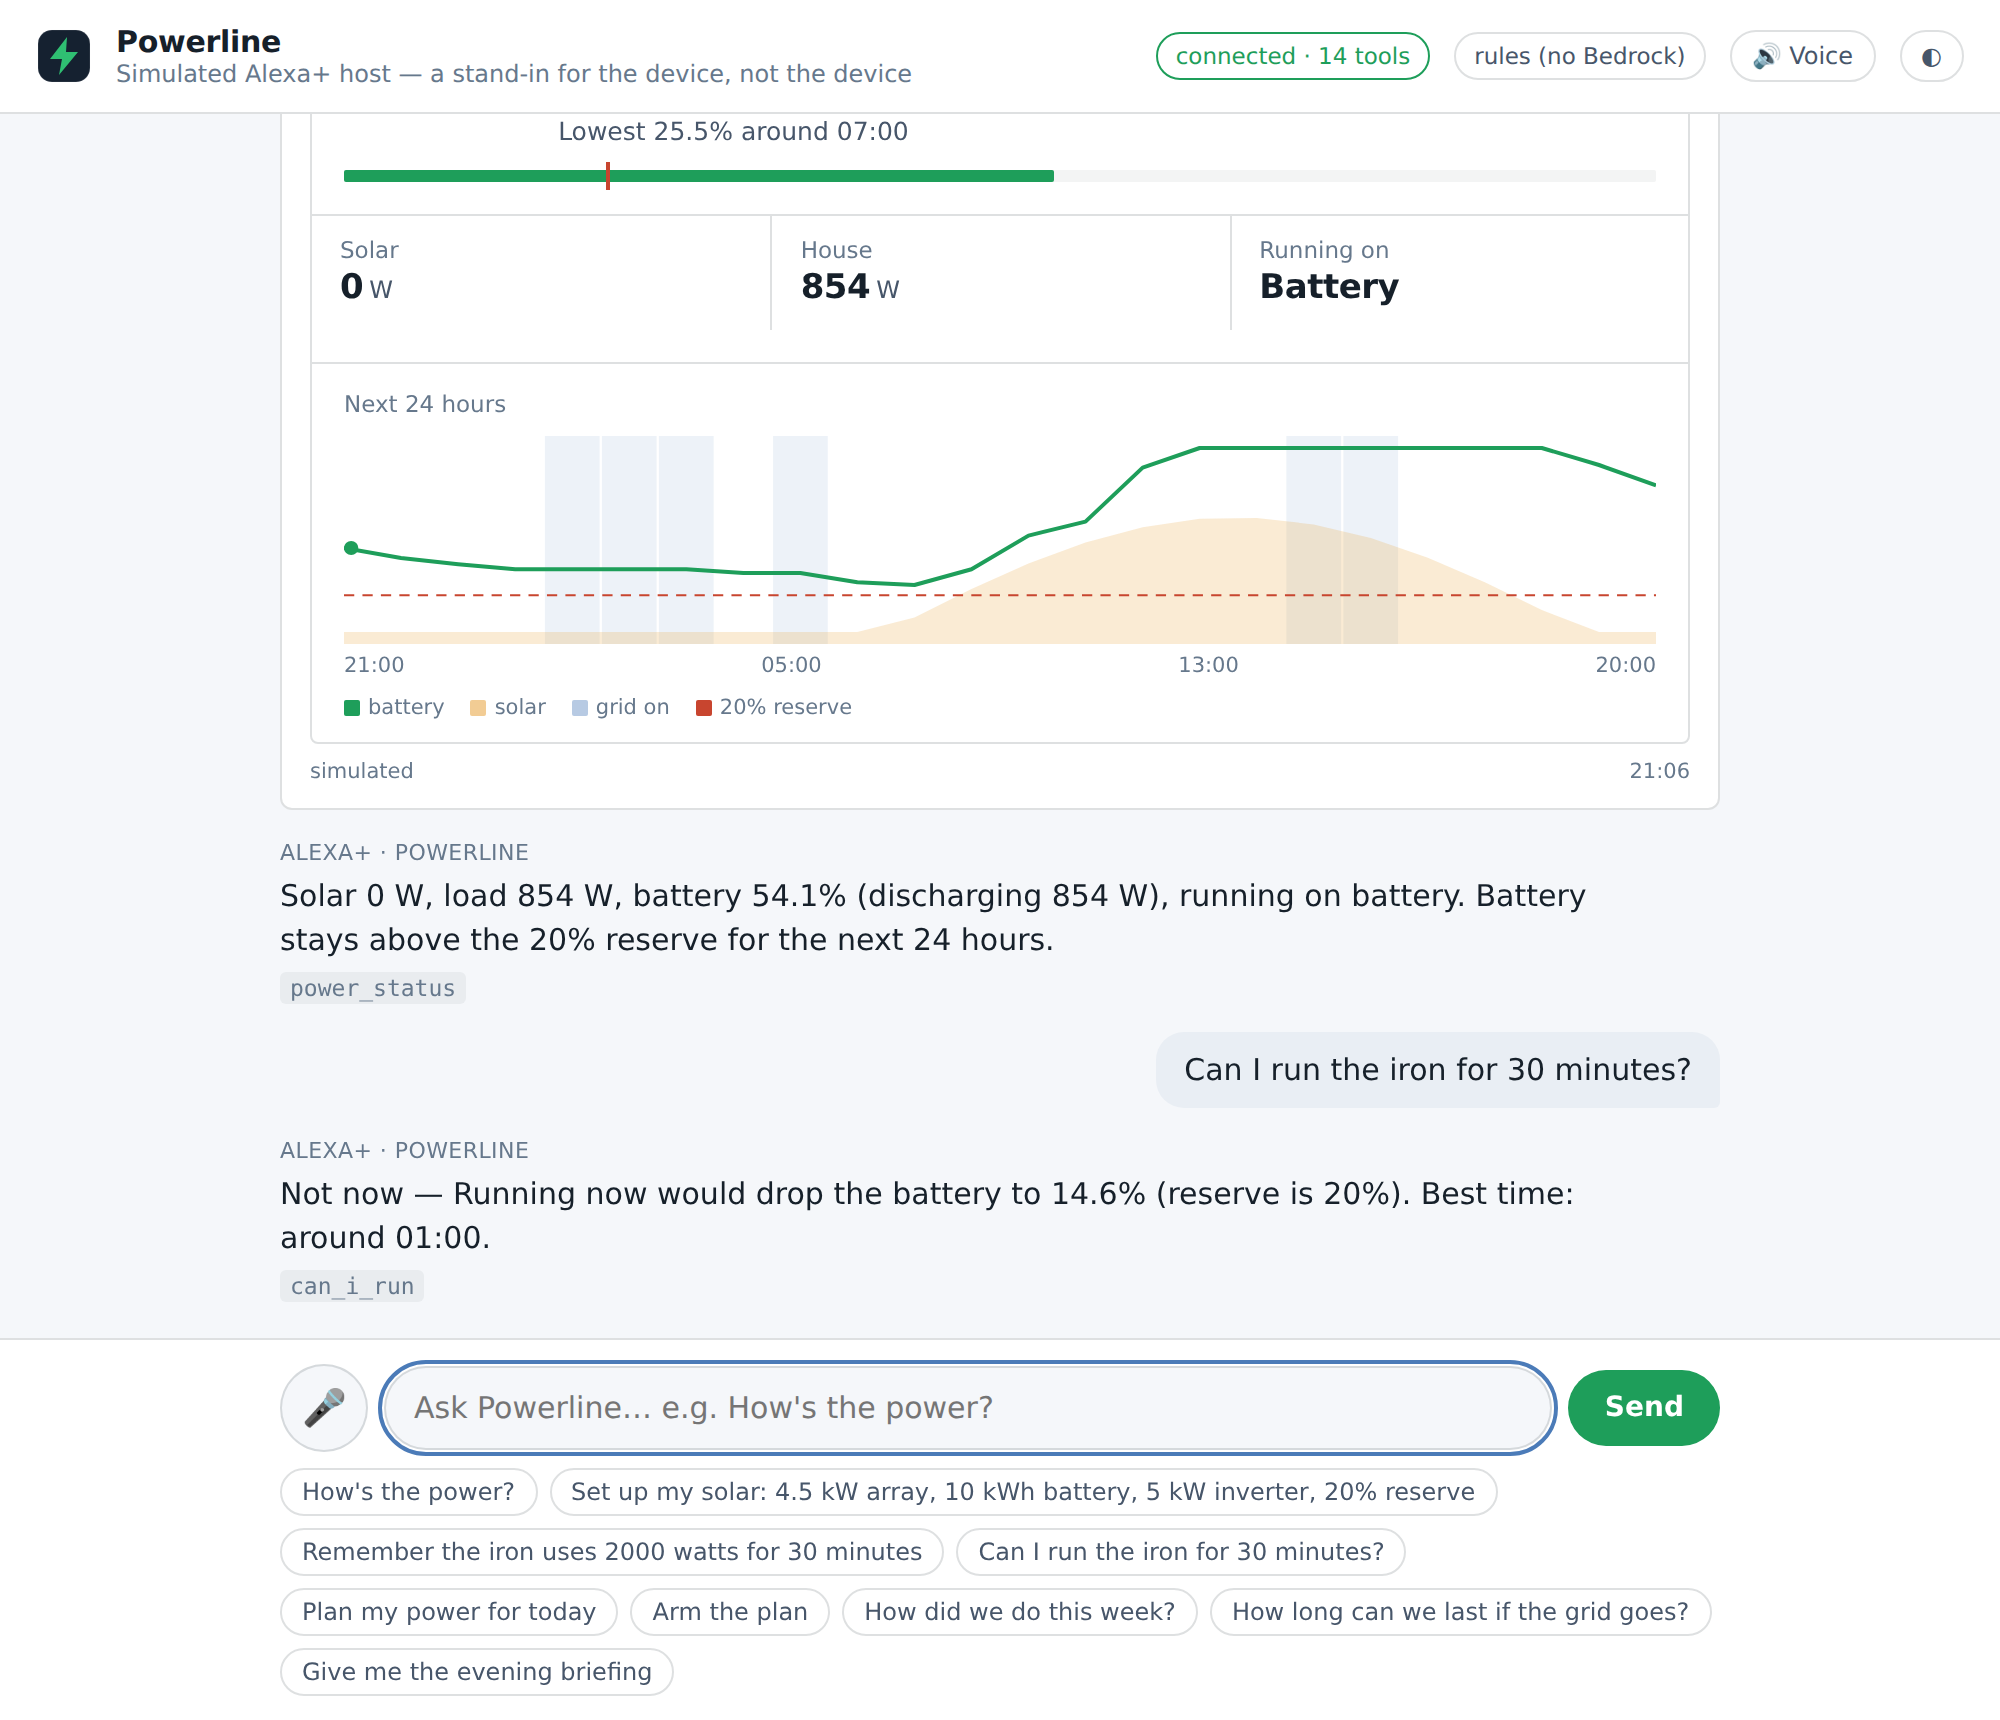
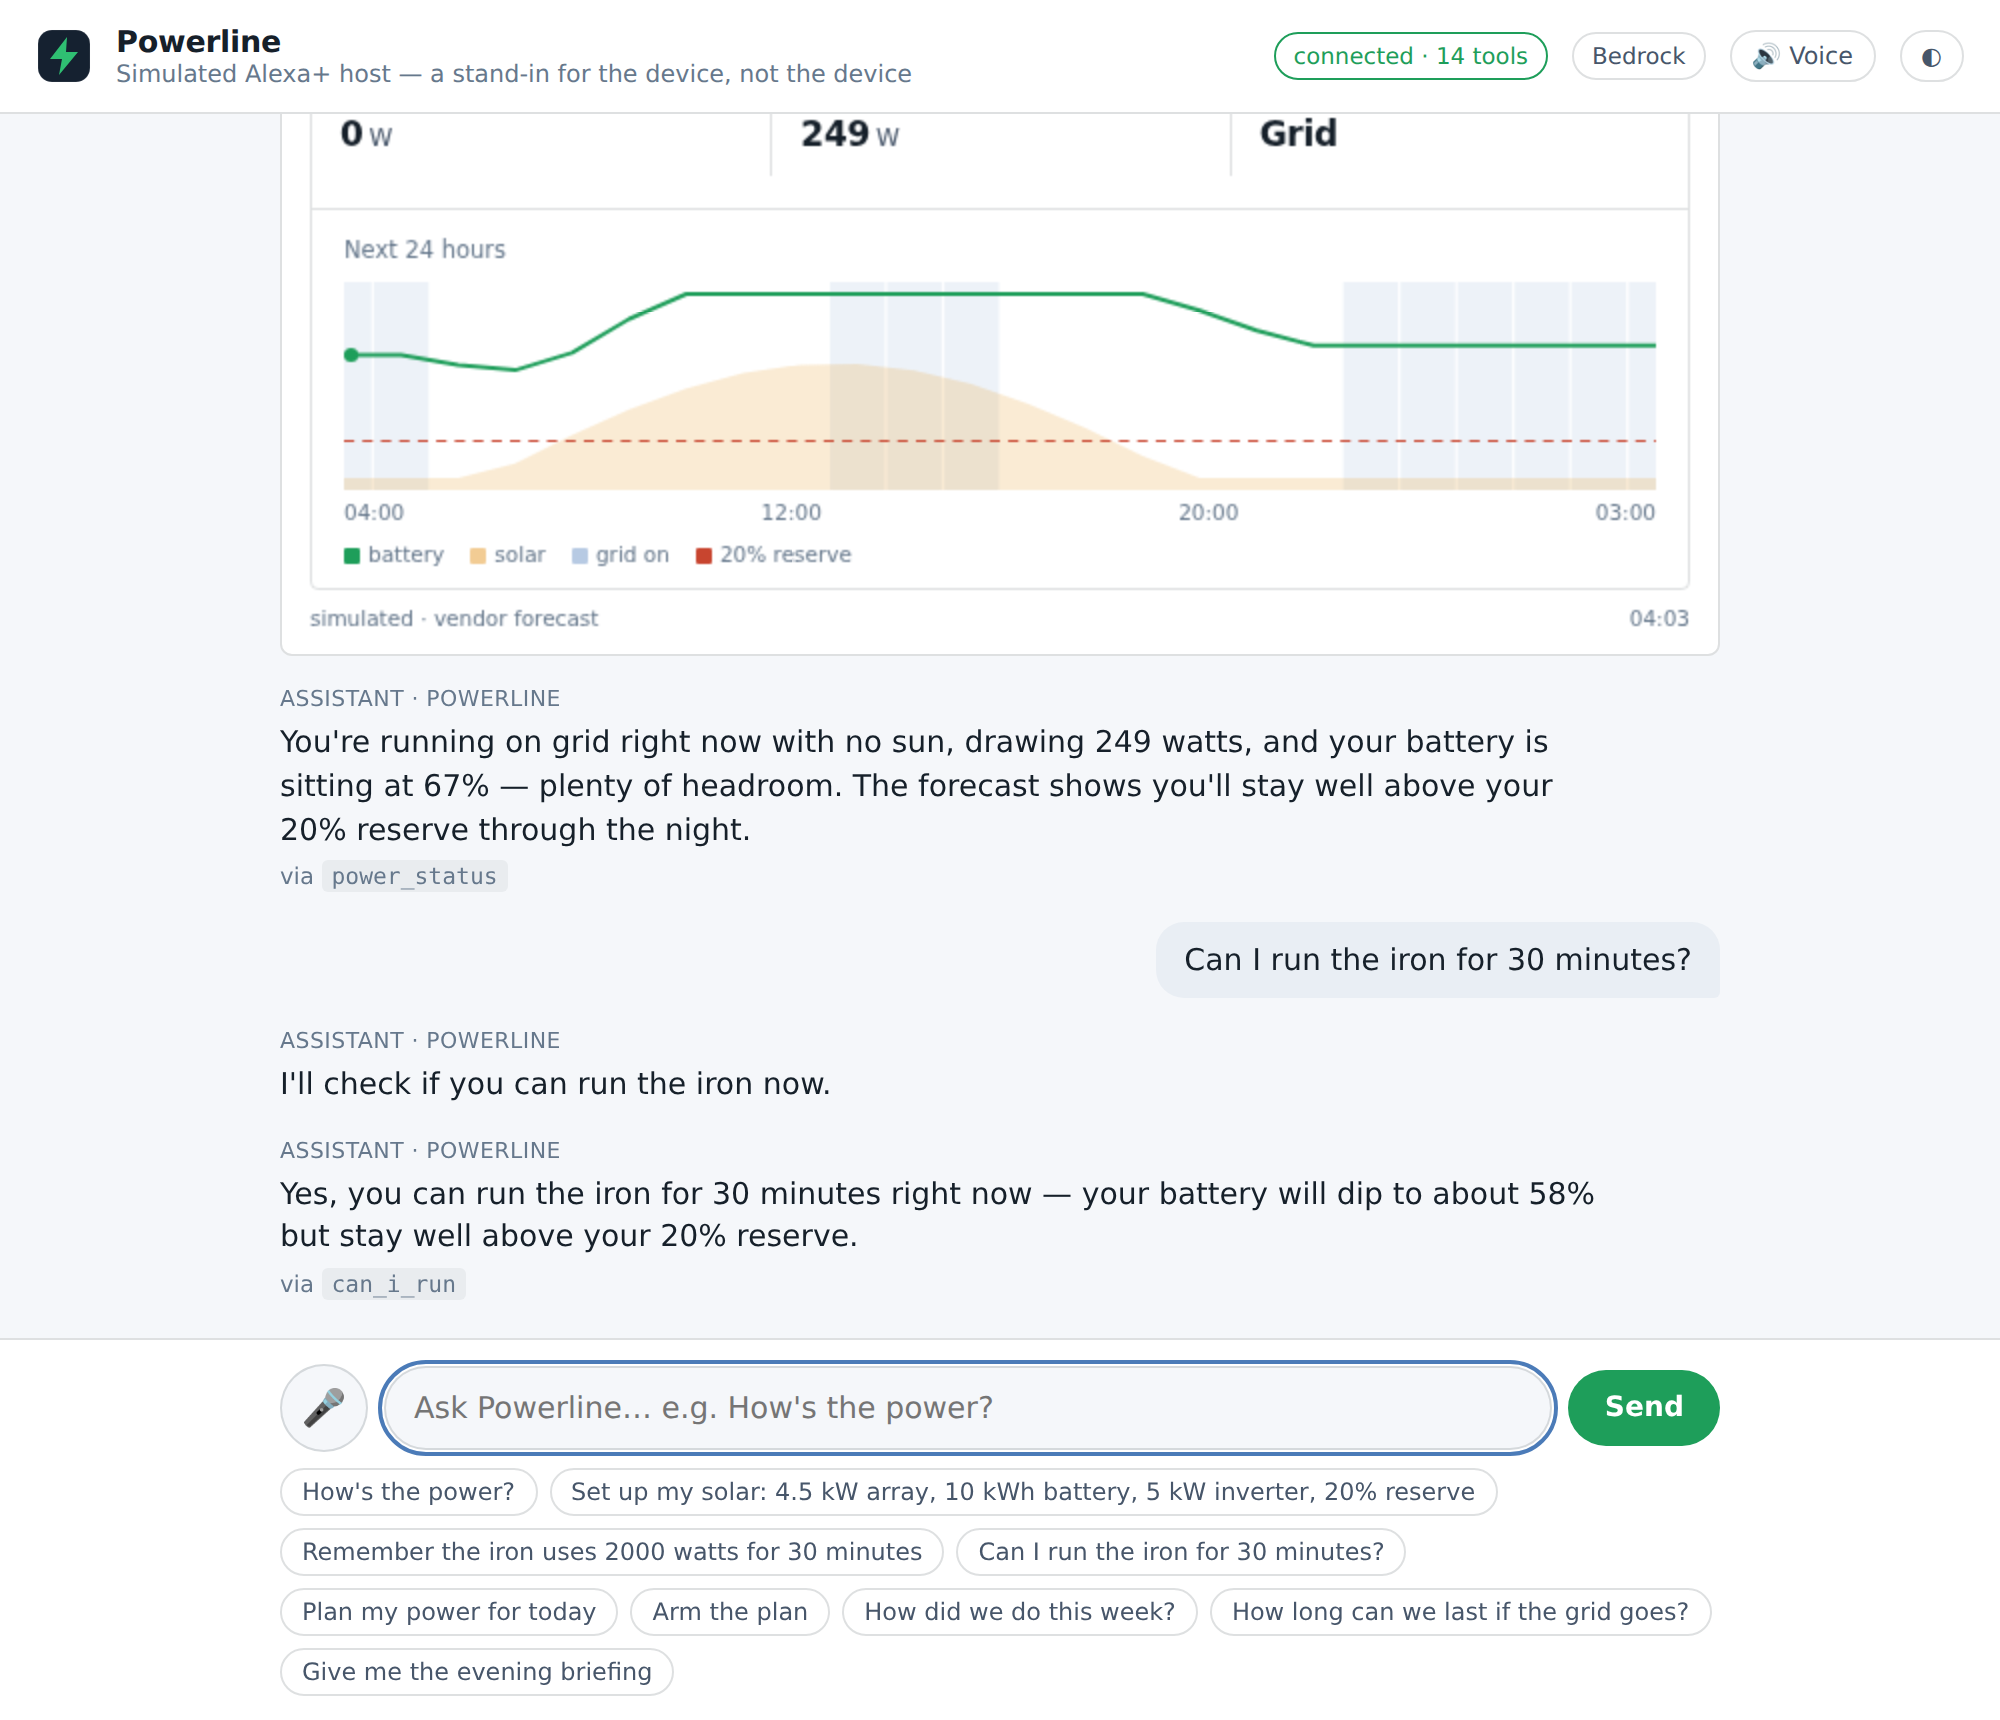
docs: README images re-recorded on the live deployment with Bedrock

diff --git a/README.md b/README.md
@@ -16,7 +16,7 @@ data, answers with **interactive MCP App cards**, plans the day around the sun, 
 it is time, **learns the household's own pattern**, and ships with its **own simulated Alexa+ host** so
 anyone can try it in a browser.
 
-![Powerline's simulated Alexa+ host: status card, "not now — best time 09:00", planner re-planning from a tick, arming, weekly report](docs/host.gif)
+![Powerline's simulated Alexa+ host on the live deployment, with Amazon Bedrock answering: status card, "can I run the iron?", the planner re-planning from a tick, and the weekly report](docs/host.gif)
 
 ### At a glance
 
@@ -28,7 +28,7 @@ anyone can try it in a browser.
 | **Remembers** | profile, appliances, tariff, armed plan, 14 days of hourly history per household — DynamoDB (conditional writes) or disk |
 | **Learns** | after 3 days the forecast uses *this* home's hour-by-hour load shape and real solar yield; the report says so |
 | **Reports** | solar made, house used, grid hours and cost, worst battery point — today / yesterday / week |
-| **Real data** | Victron VRM (live against a real installation), Growatt OpenAPI (replay-tested), simulator |
+| **Real data** | Victron VRM (read live from Victron's public demo installation), Growatt OpenAPI (replay-tested), simulator |
 | **Host** | `/demo`: full MCP Apps host (SDK `AppBridge`), pushed alerts as toasts, elicitation dialog, voice in/out, Bedrock or offline rule router |
 | **Identity** | bearer token = household; sessions bound to it; fails closed; CORS for browser hosts; **OAuth 2.1 account linking built in** (discovery, dynamic registration, consent page, PKCE, rotating refresh) — the flow Alexa+ uses, proven with the official client |
 | **Weather** | optional Open-Meteo radiation forecast for the household's coordinates replaces the clear-sky curve; falls back silently |
@@ -64,7 +64,7 @@ reminders arriving as they are pushed, voice in and out). It runs on Amazon Bedr
 is set and on a deterministic phrase router otherwise, and says which in its header. It is a stand-in for
 the device, and says that too.
 
-![Simulated Alexa+ host](docs/demo-host.png)
+![Simulated Alexa+ host on the live deployment, Bedrock phrasing the replies](docs/demo-host.png)
 
 Or connect any other MCP Apps host to `http://127.0.0.1:3000/mcp` — [MCPJam Inspector](https://www.mcpjam.com)
 (`npx @mcpjam/inspector@latest`, **Add server → HTTP**) — and say:
@@ -295,7 +295,7 @@ Judges and users deserve the line drawn clearly.
 | Real | Simulated / not claimed |
 | --- | --- |
 | The MCP server, transport, sessions, auth, cards, prompts, skill, alerts and reminders — all run as shown, through any MCP Apps host. | **The host.** `/demo` is Powerline's own simulated Alexa+ host (a genuine MCP Apps host, but not Alexa), and MCPJam Inspector is the other host used in the demo; no claim is made of a completed connection inside the production Alexa+ app. The simulated host's language model is Amazon Bedrock when configured, otherwise a phrase router — the header says which. |
-| **Victron VRM** telemetry — read live from Victron's public demo installation (a real site) and from any site with a personal access token. | **Growatt** — replay-tested against recorded payloads from both device families; not yet run against a live unit. |
+| **Victron VRM** telemetry — read live from Victron's public demo installation, and from any site with a personal access token. | **Growatt** — replay-tested against recorded payloads from both device families; not yet run against a live unit. |
 | **Amazon Bedrock** phrases the briefing; **Amazon DynamoDB** stores households — both exercised at runtime with the project's own account. | **The default telemetry** is a simulator (clear-sky Lagos curve, scripted outage bands) so the project runs with no hardware and no account. |
 | The forecast engine — pure arithmetic on the household's own numbers, property-tested. **Weather** — Open-Meteo's radiation forecast for the household's coordinates, when `WEATHER_LAT/LON` are set. | Without coordinates (and on a simulated clock) the solar curve is the clear-sky model; a provider forecast (VRM exposes one) is used only when it is a full, finite series. The card footer always says which source is in play. |
 
